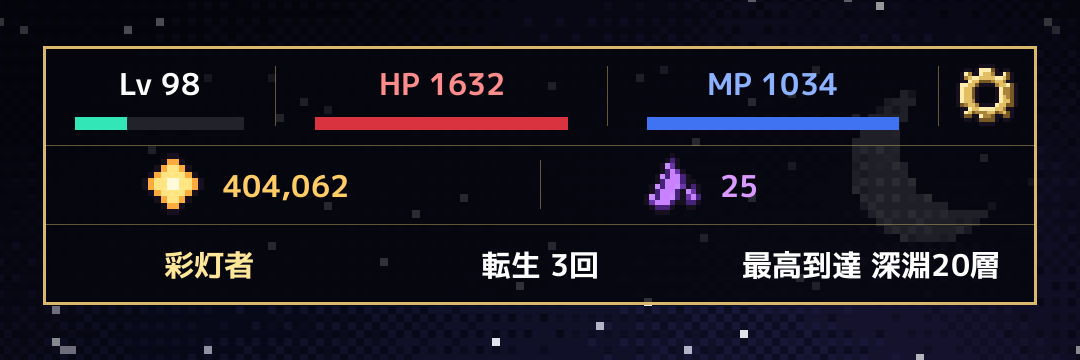
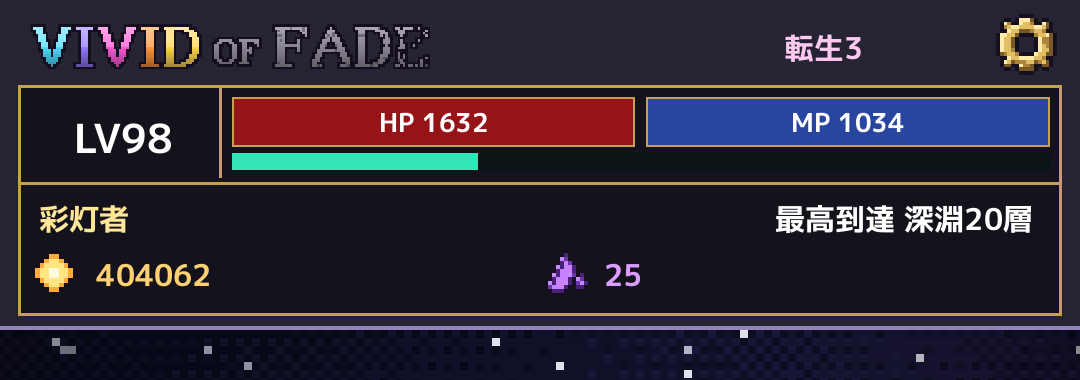
Town header reuses the dungeon top band style
Logo, rebirth mark and a settings gear where MENU sits, then the same framed
panel: LV box, HP and MP bars (full in town), EXP bar, a divider, class and
best floor, and ember / shard icons with dot-font numbers.

Claude-Session: https://claude.ai/code/session_01XMEo4x59g4Ygvken3HiQNb

diff --git a/Game/Assets/Scripts/UI/Hud.cs b/Game/Assets/Scripts/UI/Hud.cs
@@ -1027,6 +1027,119 @@ namespace VividOfFade
             });
         }
 
+        /// <summary>
+        /// 町の画面の上の帯。ダンジョンの上の帯と同じ作り：1段目 ロゴ・転生の印・設定の歯車（MENU の場所）／
+        /// 1枚の枠に LV・HP・MP（町では満タン）・経験値、仕切りの下に 職業と最高到達、火種と欠片。下端（GUI 座標）を返す。
+        /// </summary>
+        public float DrawTownHeader(CharacterData ch, PlayerStats st, System.Action openSettings)
+        {
+            float W = Screen.width, mm = BandMargin;
+            var bandColor = new Color(0.15f, 0.14f, 0.2f, 1f);
+            // 1段目：ロゴ・転生の印・歯車
+            var titleRow = new Rect(mm, mm, W - mm * 2f, TitleRowH);
+            var menu = ToGui(MenuRect);
+            float gearS = menu.height * 1.15f;
+            var gearR = new Rect(menu.xMax - gearS, menu.y + (menu.height - gearS) * 0.5f, gearS, gearS);
+            {
+                var logo = TitleArt.Logo;
+                float lh = titleRow.height * 0.92f, lw = logo.width * lh / logo.height;
+                var logoRect = new Rect(titleRow.x + mm * 0.5f, titleRow.y + (titleRow.height - lh) * 0.5f, lw, lh);
+                var oldColor = GUI.color;
+                GUI.color = new Color(1f, 1f, 1f, 0.6f);
+                GUI.DrawTexture(new Rect(logoRect.x - lh * 0.05f, logoRect.y - lh * 0.05f, logoRect.width + lh * 0.1f, logoRect.height + lh * 0.1f), TitleArt.Glow);
+                GUI.color = oldColor;
+                GUI.DrawTexture(logoRect, logo);
+                if (ch.Rebirths > 0)
+                {
+                    var aura = ThirdClasses.AuraColor(ch.Rebirths);
+                    var countStyle = new GUIStyle(small) { alignment = TextAnchor.MiddleRight, fontStyle = FontStyle.Bold };
+                    countStyle.normal.textColor = Color.Lerp(aura, Color.white, 0.35f);
+                    string count = Loc.T($"Reborn x{ch.Rebirths}", $"転生{ch.Rebirths}");
+                    float cw = countStyle.CalcSize(new GUIContent(count)).x;
+                    float right = gearR.x - mm * 1.2f;
+                    GUI.Label(new Rect(right - cw, titleRow.y, cw, titleRow.height), count, countStyle);
+                    float gem = titleRow.height * 0.8f;
+                    var old2 = GUI.color;
+                    GUI.color = aura;
+                    DrawSprite(new Rect(right - cw - mm * 0.4f - gem, titleRow.y + (titleRow.height - gem) * 0.5f, gem, gem), PixelArt.RebirthGem);
+                    GUI.color = old2;
+                }
+                Button(gearR, null, new Color(1f, 1f, 1f, 0.06f), centered, openSettings);
+                DrawSprite(new Rect(gearR.x + gearS * 0.08f, gearR.y + gearS * 0.08f, gearS * 0.84f, gearS * 0.84f), PixelArt.GearIcon);
+            }
+
+            // 枠：LV・HP・MP・経験値、仕切り、職業と最高到達、火種と欠片
+            float pp = PanelPad, dt = DividerT;
+            float sh = Mathf.Max(1f, Mathf.Round(dt * 0.5f));
+            float infoRowH = FloorRowH * 1.15f;
+            float panelH = PanelPad * 2.8f + TopRowH + mm * 0.35f + ExpRowH + dt * 1.5f + infoRowH * 2f + pp * 0.6f;
+            var panel = new Rect(mm, titleRow.yMax + mm * 0.6f, W - mm * 2f, panelH);
+            Fill(new Rect(0, 0, W, panel.yMax + mm), bandColor);
+            Fill(panel, new Color(0.08f, 0.075f, 0.11f, 1f));
+            var hi = new Color(1f, 0.95f, 0.75f, 0.9f);
+            var lo = new Color(0f, 0f, 0f, 0.75f);
+            void HDivider(float x, float y, float w)
+            {
+                Fill(new Rect(x, y - sh, w, sh), lo); Fill(new Rect(x, y, w, dt), FrameGold);
+                Fill(new Rect(x, y, w, Mathf.Max(1f, dt * 0.3f)), hi); Fill(new Rect(x, y + dt, w, sh), lo);
+            }
+            void VDivider(float x, float y, float h)
+            {
+                Fill(new Rect(x - sh, y, sh, h), lo); Fill(new Rect(x, y, dt, h), FrameGold);
+                Fill(new Rect(x, y, Mathf.Max(1f, dt * 0.3f), h), hi); Fill(new Rect(x + dt, y, sh, h), lo);
+            }
+            float rowY = panel.y + pp, rowH = TopRowH, expGap = mm * 0.35f;
+            var lvBox = new Rect(panel.x + pp, rowY, W * 0.17f, rowH + expGap + ExpRowH);
+            string lvText = ch.Level >= Progression.LevelCap(ch) ? $"LV{ch.Level}★" : $"LV{ch.Level}";
+            NumberFont.DrawIn(lvBox, lvText, Color.white, TextAnchor.MiddleCenter, 0.9f, HudPx + 1f);
+            VDivider(lvBox.xMax + pp * 0.5f, panel.y, lvBox.height + pp * 1.5f);
+            float barX = lvBox.xMax + pp * 1.5f;
+            float barW = (panel.xMax - pp - barX - pp) * 0.5f;
+            int maxHp = st != null ? st.MaxHp : 0, maxMp = st != null ? st.MaxMp : 0;
+            var hpBack = new Rect(barX, rowY, barW, rowH);
+            OrnateBar(hpBack, 1f, new Color(0.15f, 0.04f, 0.05f, 1f), new Color(0.8f, 0.1f, 0.12f, 1f), FrameGold, false);
+            NumberFont.DrawIn(hpBack, $"HP {maxHp}", Color.white, TextAnchor.MiddleCenter, 0.9f, HudPx);
+            var mpBack = new Rect(hpBack.xMax + pp, rowY, panel.xMax - pp - (hpBack.xMax + pp), rowH);
+            OrnateBar(mpBack, 1f, new Color(0.05f, 0.08f, 0.18f, 1f), new Color(0.2f, 0.35f, 0.75f, 1f), FrameGold, false);
+            NumberFont.DrawIn(mpBack, $"MP {maxMp}", Color.white, TextAnchor.MiddleCenter, 0.9f, HudPx);
+            var expBack = new Rect(barX, rowY + rowH + expGap, panel.xMax - pp - barX, ExpRowH);
+            Fill(expBack, new Color(0.02f, 0.05f, 0.05f, 1f));
+            float expRatio = ch.Level >= Progression.LevelCap(ch) ? 1f : Mathf.Clamp01((float)ch.Exp / Mathf.Max(1, Progression.ExpToNext(ch, ch.Level)));
+            Fill(new Rect(expBack.x, expBack.y, expBack.width * expRatio, expBack.height), new Color(0.2f, 0.9f, 0.72f, 1f));
+            Fill(new Rect(expBack.x, expBack.y, expBack.width * expRatio, expBack.height * 0.4f), new Color(0.85f, 1f, 0.95f, 0.45f));
+            for (int k = 1; k < 10; k++) Fill(new Rect(expBack.x + expBack.width * k / 10f, expBack.y, 1f, expBack.height), new Color(0f, 0f, 0f, 0.35f));
+            Frame(expBack, new Color(0f, 0f, 0f, 0.6f), 1f);
+
+            float divY = lvBox.yMax + pp * 0.5f;
+            HDivider(panel.x, divY, panel.width);
+            var txt = new GUIStyle(small) { fontStyle = FontStyle.Bold, alignment = TextAnchor.MiddleLeft };
+            // 職業（左）と最高到達（右）
+            var row1 = new Rect(panel.x + pp, divY + dt * 1.5f + pp * 0.2f, panel.width - pp * 2f, infoRowH);
+            txt.normal.textColor = new Color(1f, 0.9f, 0.6f);
+            var adv = AdvancedClasses.Of(ClassInfo.Current, ch);
+            FitLabel(new Rect(row1.x, row1.y, row1.width * 0.5f, row1.height), adv != null ? adv.DisplayName : ClassInfo.Get(ClassInfo.Current).DisplayName, txt);
+            int best = ch.Ascended ? ch.AscentBest : ch.BestFloor;
+            string bestText = best > 0 ? GameConfig.FloorName(best, ch.Ascended) : "-";
+            var rt = new GUIStyle(txt) { alignment = TextAnchor.MiddleRight };
+            rt.normal.textColor = Color.white;
+            FitLabel(new Rect(row1.x + row1.width * 0.5f, row1.y, row1.width * 0.5f, row1.height), Loc.T($"Best {bestText}", $"最高到達 {bestText}"), rt);
+            // 火種と欠片（アイコンと数字）
+            var row2 = new Rect(row1.x, row1.yMax, row1.width, infoRowH);
+            float ic = infoRowH * 0.85f;
+            DrawSprite(new Rect(row2.x, row2.y + (infoRowH - ic) * 0.5f, ic, ic), PixelArt.Ember);
+            NumberFont.DrawIn(new Rect(row2.x + ic * 1.2f, row2.y, row2.width * 0.5f - ic * 1.4f, infoRowH), ch.Embers.ToString(), new Color(1f, 0.82f, 0.45f), TextAnchor.MiddleLeft, 0.9f, HudPx);
+            bool shards = ch.AbyssShards > 0 || GameConfig.CanEnterAbyss(ch);
+            var oldC = GUI.color;
+            if (!shards) GUI.color = new Color(1f, 1f, 1f, 0.3f);
+            DrawSprite(new Rect(row2.x + row2.width * 0.5f, row2.y + (infoRowH - ic) * 0.5f, ic, ic), PixelArt.ShardIcon);
+            GUI.color = oldC;
+            NumberFont.DrawIn(new Rect(row2.x + row2.width * 0.5f + ic * 1.2f, row2.y, row2.width * 0.5f - ic * 1.4f, infoRowH), shards ? ch.AbyssShards.ToString() : "-", shards ? new Color(0.85f, 0.62f, 1f) : new Color(1f, 1f, 1f, 0.3f), TextAnchor.MiddleLeft, 0.9f, HudPx);
+            OrnateFrame(panel, FrameGold, FrameT);
+            float bottom = panel.yMax + mm;
+            Fill(new Rect(0, bottom - DividerT * 0.5f, W, DividerT * 0.5f), new Color(0.58f, 0.52f, 0.72f, 1f)); // 帯の下のふち
+            return bottom;
+        }
+
         // ---- 祝いの演出（転職・3次職・転生。町の画面の上にも出る）：回る光の筋、大きな文字、きらめき ----
         float celebTime = -1f;
         const float CelebLife = 2.6f;

diff --git a/Game/Assets/Scripts/UI/TownScreen.cs b/Game/Assets/Scripts/UI/TownScreen.cs
@@ -114,80 +114,8 @@ namespace VividOfFade
             float frameT = Mathf.Max(1f, Mathf.Round(H * 0.0009f));
             var st = world.Player.BaseStats ?? world.Player.Stats;
 
-            // ---- 上の3段は1枚の枠にまとめる（段の間は細い線）。設定の歯車は枠の中の右上 ----
-            float r1y = H * 0.02f, r1h = H * 0.042f, r2h = H * 0.034f, r3h = H * 0.034f;
-            var panel = new Rect(pad, r1y, W - pad * 2f, r1h + r2h + r3h);
-            Hud.Fill(panel, new Color(0.02f, 0.02f, 0.05f, 0.8f));
-            var divider = new Color(0.85f, 0.72f, 0.42f, 0.45f);
-            Hud.Fill(new Rect(panel.x, panel.y + r1h, panel.width, 1f), divider);
-            Hud.Fill(new Rect(panel.x, panel.y + r1h + r2h, panel.width, 1f), divider);
-            // ---- 1段目：Lv（経験値のバー）・HP・MP・設定の歯車 ----
-            float gearS = r1h * 0.8f;
-            var gearR = new Rect(panel.xMax - gearS - r1h * 0.1f, r1y + r1h * 0.1f, gearS, gearS);
-            hud.Button(gearR, null, new Color(1f, 1f, 1f, 0.08f), centered, world.OpenSettings);
-            float ip = gearS * 0.1f;
-            Hud.DrawSprite(new Rect(gearR.x + ip, gearR.y + ip, gearS - ip * 2f, gearS - ip * 2f), PixelArt.GearIcon);
-            Hud.Fill(new Rect(gearR.x - r1h * 0.1f, r1y + r1h * 0.2f, 1f, r1h * 0.6f), divider);
-            var row1 = new Rect(pad, r1y, gearR.x - r1h * 0.1f - pad, r1h);
-            var cell = new GUIStyle(small) { fontStyle = FontStyle.Bold, alignment = TextAnchor.MiddleCenter };
-            {
-                float lvW = row1.width * 0.26f, hw = (row1.width - lvW) * 0.5f;
-                cell.normal.textColor = Color.white;
-                Hud.FitLabel(new Rect(row1.x, row1.y, lvW, row1.height * 0.74f), $"Lv {ch.Level}", cell);
-                int need = Progression.ExpToNext(ch, ch.Level);
-                var bar = new Rect(row1.x + lvW * 0.14f, row1.y + row1.height * 0.72f, lvW * 0.72f, row1.height * 0.12f);
-                Hud.Fill(bar, new Color(1f, 1f, 1f, 0.12f));
-                Hud.Fill(new Rect(bar.x, bar.y, bar.width * Mathf.Clamp01(need > 0 ? (float)ch.Exp / need : 0f), bar.height), new Color(0.2f, 0.9f, 0.72f, 1f));
-                // HP・MP：数字の下にバー（町では満タン）
-                for (int k = 0; k < 2; k++)
-                {
-                    bool hpRow = k == 0;
-                    float x0 = row1.x + lvW + hw * k;
-                    cell.normal.textColor = hpRow ? new Color(1f, 0.55f, 0.55f) : new Color(0.55f, 0.7f, 1f);
-                    Hud.FitLabel(new Rect(x0, row1.y, hw, row1.height * 0.74f), st != null ? (hpRow ? $"HP {st.MaxHp}" : $"MP {st.MaxMp}") : (hpRow ? "HP" : "MP"), cell);
-                    var hb = new Rect(x0 + hw * 0.12f, row1.y + row1.height * 0.72f, hw * 0.76f, row1.height * 0.12f);
-                    Hud.Fill(hb, new Color(1f, 1f, 1f, 0.12f));
-                    Hud.Fill(hb, hpRow ? new Color(0.85f, 0.2f, 0.25f, 1f) : new Color(0.25f, 0.45f, 0.95f, 1f));
-                    Hud.Fill(new Rect(hb.x, hb.y, hb.width, hb.height * 0.35f), new Color(1f, 1f, 1f, 0.25f)); // 光沢
-                }
-                for (int k = 0; k < 2; k++) Hud.Fill(new Rect(row1.x + lvW + hw * k, row1.y + row1.height * 0.2f, 1f, row1.height * 0.6f), new Color(0.85f, 0.72f, 0.42f, 0.4f));
-            }
-
-            // ---- 2段目：火種・欠片（アイコンと数字だけ。欠片は深淵へ行けるようになってから） ----
-            float r2y = row1.yMax;
-            var rowM = new Rect(pad, r2y, W - pad * 2f, r2h);
-            {
-                float half = rowM.width * 0.5f, ic = r2h * 0.78f;
-                var num = new GUIStyle(cell) { alignment = TextAnchor.MiddleLeft };
-                // 火種
-                Hud.DrawSprite(new Rect(rowM.x + half * 0.2f, rowM.y + (r2h - ic) * 0.5f, ic, ic), PixelArt.Ember);
-                num.normal.textColor = new Color(1f, 0.8f, 0.4f);
-                Hud.FitLabel(new Rect(rowM.x + half * 0.2f + ic * 1.2f, rowM.y, half * 0.75f - ic, r2h), ch.Embers.ToString("N0"), num);
-                // 欠片
-                bool shards = ch.AbyssShards > 0 || GameConfig.CanEnterAbyss(ch);
-                var oldC = GUI.color;
-                if (!shards) GUI.color = new Color(1f, 1f, 1f, 0.3f);
-                Hud.DrawSprite(new Rect(rowM.x + half + half * 0.2f, rowM.y + (r2h - ic) * 0.5f, ic, ic), PixelArt.ShardIcon);
-                GUI.color = oldC;
-                num.normal.textColor = shards ? new Color(0.85f, 0.6f, 1f) : new Color(1f, 1f, 1f, 0.3f);
-                Hud.FitLabel(new Rect(rowM.x + half + half * 0.2f + ic * 1.2f, rowM.y, half * 0.75f - ic, r2h), shards ? ch.AbyssShards.ToString("N0") : "-", num);
-                Hud.Fill(new Rect(rowM.x + half, rowM.y + r2h * 0.2f, 1f, r2h * 0.6f), new Color(0.85f, 0.72f, 0.42f, 0.4f));
-            }
-
-            // ---- 3段目：職業・転生の回数・最高到達 ----
-            float r3y = rowM.yMax;
-            var row2 = new Rect(pad, r3y, W - pad * 2f, r3h);
-            Hud.OrnateFrame(panel, Hud.FrameGold, frameT, false, false);
-            {
-                float cw = row2.width / 3f;
-                cell.normal.textColor = new Color(1f, 0.9f, 0.6f);
-                Hud.FitLabel(new Rect(row2.x, row2.y, cw, r3h), ClassTitle(type, ch), cell);
-                cell.normal.textColor = Color.white;
-                Hud.FitLabel(new Rect(row2.x + cw, row2.y, cw, r3h), Loc.T($"Reborn {ch.Rebirths}", $"転生 {ch.Rebirths}回"), cell);
-                int best = ch.Ascended ? ch.AscentBest : ch.BestFloor;
-                string bestText = best > 0 ? GameConfig.FloorName(best, ch.Ascended) : "-";
-                Hud.FitLabel(new Rect(row2.x + cw * 2f, row2.y, cw, r3h), Loc.T($"Best {bestText}", $"最高到達 {bestText}"), cell);
-            }
+            // ---- 上の帯：ダンジョンの上の帯と同じ作り（ロゴ・転生の印・設定の歯車／LV・HP・MP・経験値／職業・最高到達／火種・欠片） ----
+            float headerBottom = hud.DrawTownHeader(ch, st, world.OpenSettings);
 
             // ---- いちばん下：施設の段（倉庫・ショップ・女神・鞄・鍛冶）と、その上の小さいボタンの段 ----
             var adv = AdvancedClasses.Of(type, ch);
@@ -264,7 +192,7 @@ namespace VividOfFade
 
             // ---- 真ん中：自分を大きく（ドットの大きさは町の絵と同じ。入りきらなければ縮める） ----
             {
-                float top = row2.yMax + H * 0.015f, bottom = portraitBottom;
+                float top = headerBottom + H * 0.012f, bottom = portraitBottom;
                 var big = PixelArt.TownPortrait(ch);
                 float px = Mathf.Ceil(Mathf.Max(W / TownScene.W, H / TownScene.H)) * (big.texture.height > 200 ? 0.5f : 1f); // 町の絵の1ドットの大きさ（細かい版の絵はその半分）
                 float bw0 = big.texture.width * px, bh0 = big.texture.height * px; // 絵は1枚のテクスチャ
